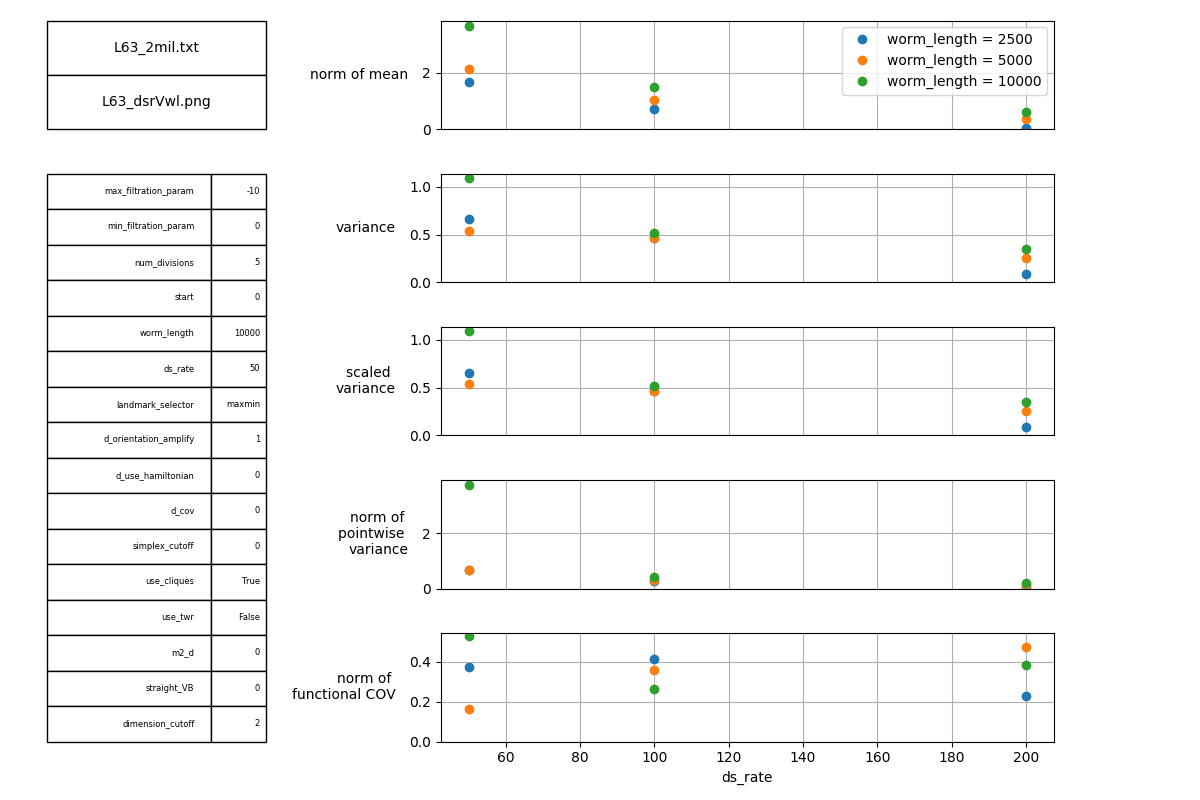
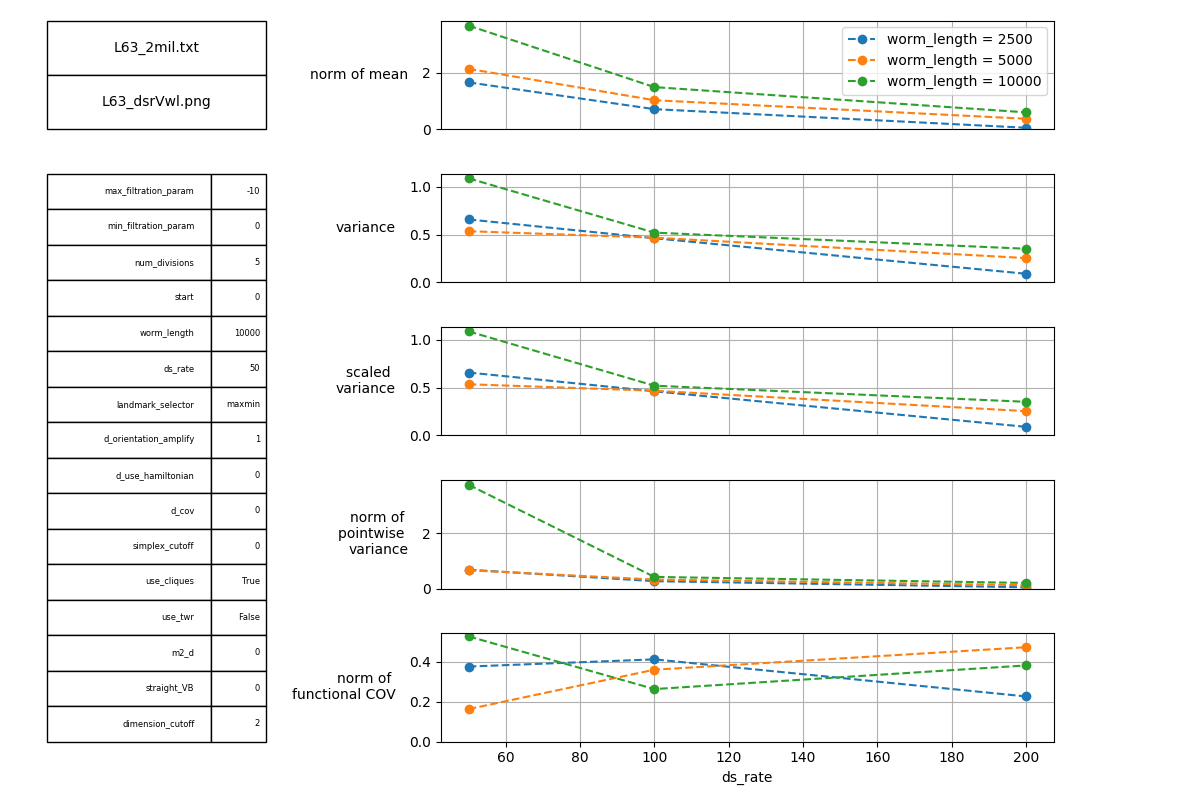
plot_variance dashed lines and points

diff --git a/PRFCompare/Plots.py b/PRFCompare/Plots.py
@@ -455,12 +455,12 @@ def plot_variance(
 		for i, val_2_data in enumerate(data_list):
 			label = label_list[i]
 			x = vary_param_1[1]
-			ax1.plot(x, val_2_data.pointwise_mean_norm, 'o', label=label)
+			ax1.plot(x, val_2_data.pointwise_mean_norm, '--o', label=label)
 			ax1.legend(loc=1)
-			ax2.plot(x, val_2_data.variance, 'o')
-			ax3.plot(x, val_2_data.scaled_variance, 'o')
-			ax4.plot(x, val_2_data.pointwise_variance_norm, 'o')
-			ax5.plot(x, val_2_data.functional_COV_norm, 'o')
+			ax2.plot(x, val_2_data.variance, '--o')
+			ax3.plot(x, val_2_data.scaled_variance, '--o')
+			ax4.plot(x, val_2_data.pointwise_variance_norm, '--o')
+			ax5.plot(x, val_2_data.functional_COV_norm, '--o')
 
 		for ax in [ax1, ax2, ax3, ax4, ax5]:
 			ax.grid()
